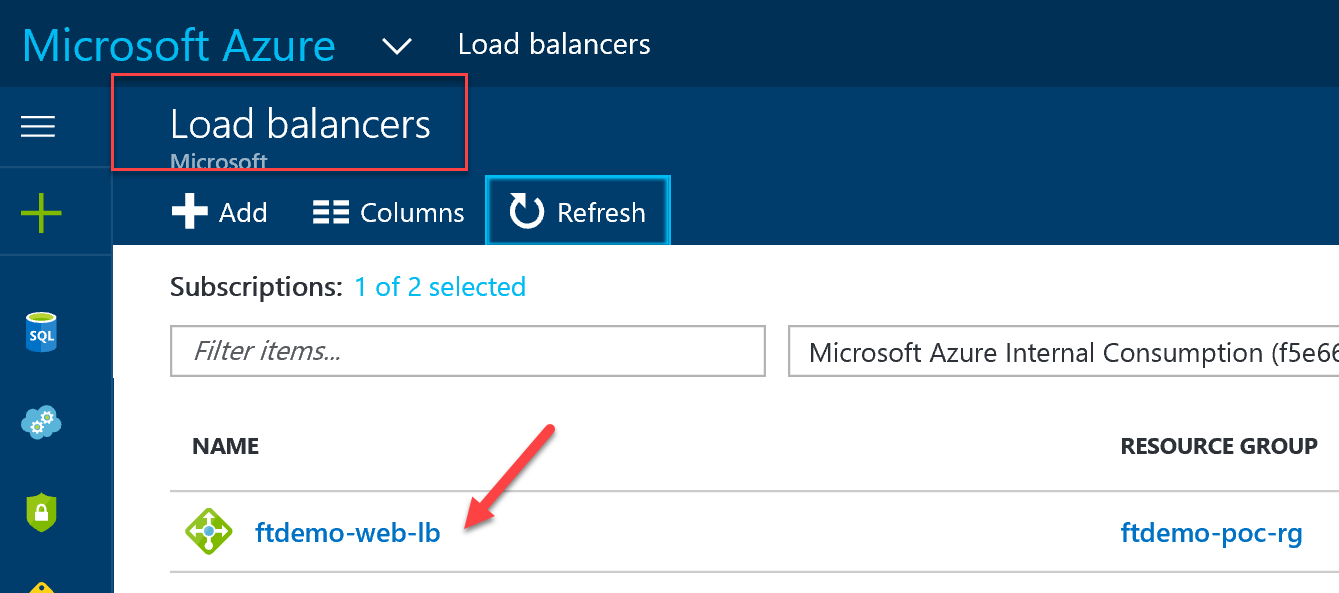
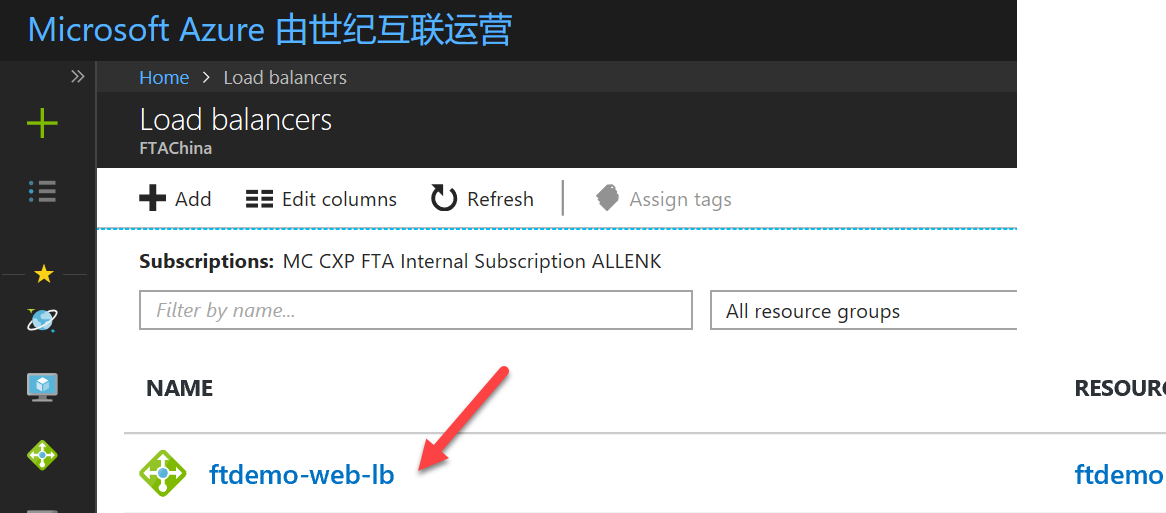
iaas

diff --git a/azure-foundations/iaas-foundations/articles/website-on-iaas-https-azurechina.md b/azure-foundations/iaas-foundations/articles/website-on-iaas-https-azurechina.md
@@ -22,13 +22,13 @@ To perform these steps, Login to VMs
 
   * From Virtual Machine blade, select the 1st VM, click **Connect** and login to machine
 
-   ![Screenshot](media/website-on-iaas-https/poc-9.png)
+   ![Screenshot](media-azurechina/website-on-iaas-https/poc-9.png)
 
 
 # Create Load Balancing Rule for HTTPS
   * Select the **Load Balancer** 
 
-     ![Screenshot](media/website-on-iaas-https/poc-17.png)
+     ![Screenshot](media-azurechina/website-on-iaas-https/poc-17.png)
 
   * Under **Settings** select **Load balancing rules**, click **Add**.
   * Enter name **(prefix)-https-lbr**.
@@ -42,7 +42,7 @@ To perform these steps, Login to VMs
     *  Floating IP (direct server return): **Disabled**
     *  Click **Ok**
 
-   ![Screenshot](media/website-on-iaas-https/poc-31.png)
+   ![Screenshot](media-azurechina/website-on-iaas-https/poc-31.png)
 
 # Update the NSG (inbound security rule)
 Following steps will add inbound security rule to allow HTTPS traffic to VM1 & VM2
@@ -54,7 +54,7 @@ Following steps will add inbound security rule to allow HTTPS traffic to VM1 & V
   * Under **Settings** select **Network Security Groups**.
   * Under **Network Security Group**, click on **(prefix)-web01-vm-nsg**.
 
-   ![Screenshot](media/website-on-iaas-https/poc-23.png)
+   ![Screenshot](media-azurechina/website-on-iaas-https/poc-23.png)
  
 
  * Under **Settings**, click on **Inbound Security Rules**.
@@ -66,7 +66,7 @@ Following steps will add inbound security rule to allow HTTPS traffic to VM1 & V
     *  Port range: **443**
     *  Action: **Allow**
 
-   ![Screenshot](media/website-on-iaas-https/poc-32.png)
+   ![Screenshot](media-azurechina/website-on-iaas-https/poc-32.png)
 
 
 ## Virtual machine #2
@@ -76,7 +76,7 @@ Following steps will add inbound security rule to allow HTTPS traffic to VM1 & V
   * Click on **(prefix)-web02-vm-nsg**.
   * Under **Settings** select **Network Security Groups**.
 
-  ![Screenshot](media/website-on-iaas-https/poc-25.png)
+  ![Screenshot](media-azurechina/website-on-iaas-https/poc-25.png)
 
  * Under **Settings**, click on **Inbound Security Rules**.
   * Click **Add**, Enter name **(prefix)-web02-vm-nsgr-https-allow**
@@ -87,11 +87,11 @@ Following steps will add inbound security rule to allow HTTPS traffic to VM1 & V
     *  Port range: **443**
     *  Action: **Allow**
 
-   ![Screenshot](media/website-on-iaas-https/poc-33.png)
+   ![Screenshot](media-azurechina/website-on-iaas-https/poc-33.png)
 
 # Testing 
   * Browse to load balancer public IP (or) **https://(prefix).westus2.cloudapp.azure.com/**
   * You will see IIS server default page, with either VM1 or VM2.
   * If you see VM1, then RDP1 into VM1, stop Default Web Site in IIS. Refresh web page, you will see VM2. Load balancer detects VM1 is down and redirects traffic to VM2.
 
-   ![Screenshot](media/website-on-iaas-https/poc-34.png)
+   ![Screenshot](media-azurechina/website-on-iaas-https/poc-34.png)
